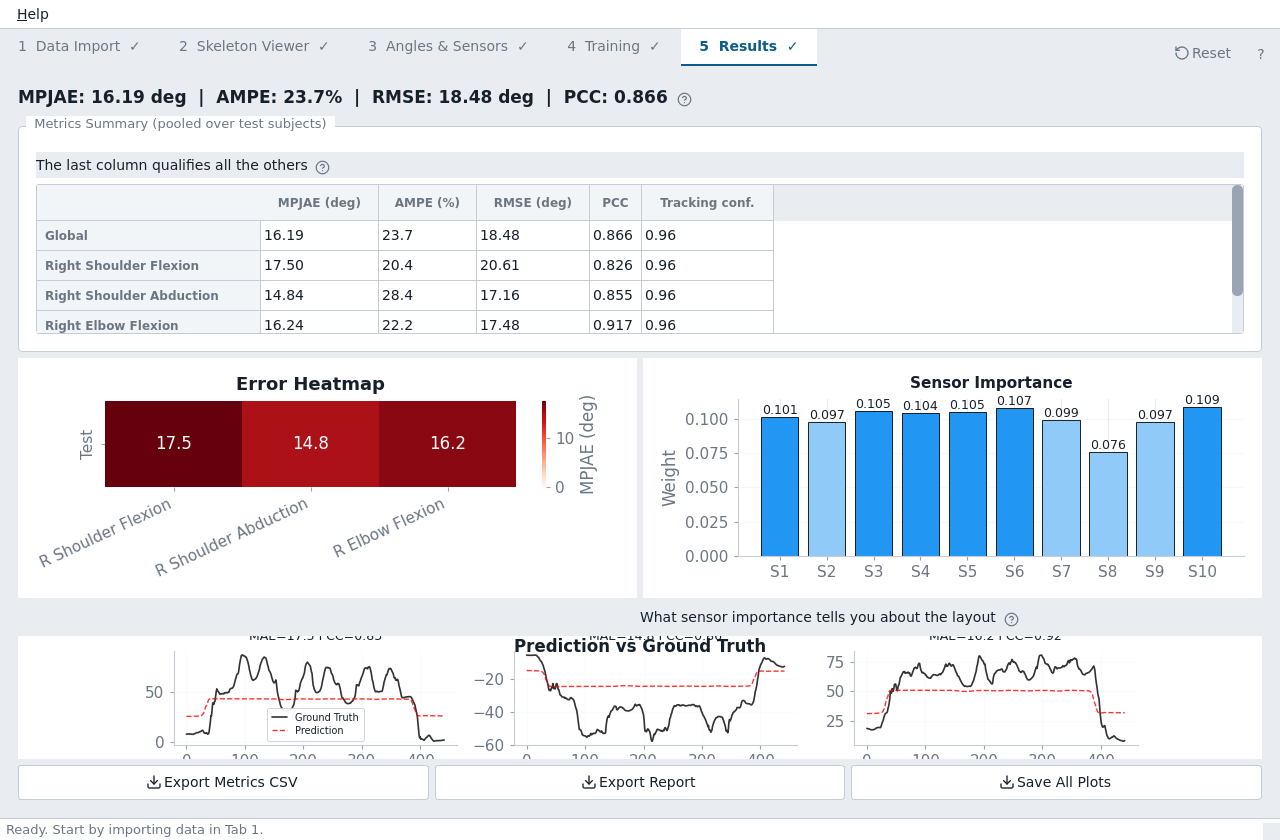
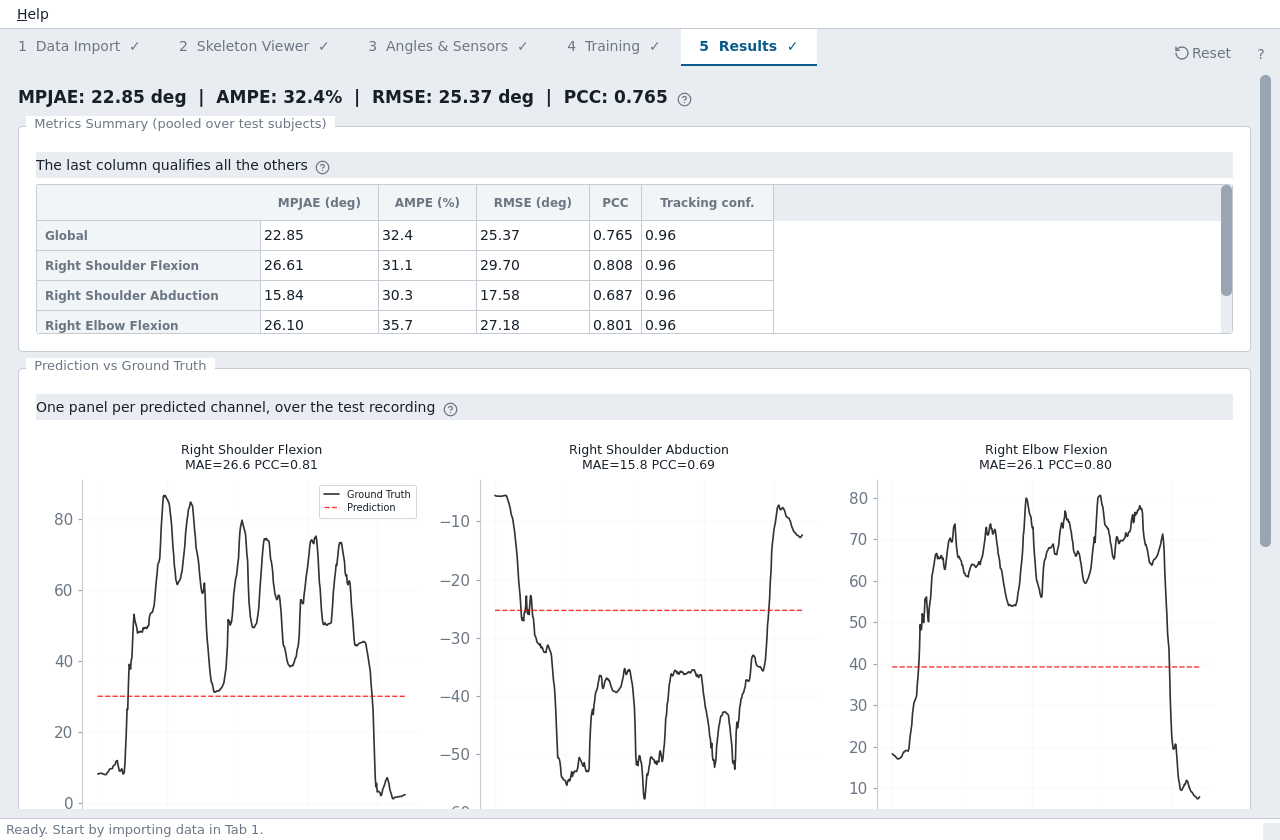
Drop the error heatmap and lead Tab 5 with the prediction curves
The heatmap was a single row of per-joint errors sitting directly below
the metrics table that already printed those same numbers, and it spent
half the width doing it.

Prediction vs Ground Truth takes that space: it moves up between the
tables and the sensor chart, gets its own group box and grows from 10x4
to 11x5.6. It is the figure that answers the question the tables cannot —
whether the error is a constant offset, drift, or a movement the sensors
miss altogether. Sensor importance moves below it at the size a ten-bar
chart needs.

The CLI keeps writing error_heatmap.png; only the dashboard changes.

Manual, README and screenshots updated to match.

diff --git a/gui/panels/results_dashboard.py b/gui/panels/results_dashboard.py
@@ -1,6 +1,13 @@
 """
-Tab 5: Results Dashboard — Metrics table, heatmap, sensor importance,
-prediction curves, export.
+Tab 5: Results Dashboard — Metrics tables, prediction curves, sensor
+importance, export.
+
+The per-joint error heatmap that used to sit here was dropped: it was a single
+row of numbers already printed in the metrics table right above it, so it spent
+half the width restating what the reader had just read. The prediction-vs-ground-
+truth curves take that space instead — they are the figure people actually read
+to judge whether the garment tracks the movement — and sensor importance sits
+below them at the size a ten-bar chart needs.
 """
 
 import numpy as np
@@ -10,25 +17,12 @@ from PyQt6.QtWidgets import (
     QTableWidget, QTableWidgetItem, QFileDialog, QGroupBox, QMessageBox,
     QScrollArea,
 )
-from PyQt6.QtCore import Qt
 from PyQt6.QtGui import QColor
 
 from matplotlib.backends.backend_qtagg import FigureCanvasQTAgg as FigureCanvas
 from matplotlib.figure import Figure
 
 from gui import help as help_ui, icons
-
-
-def _abbreviate(joint_name):
-    """
-    Shorten a joint name for a cramped axis label.
-
-    "Right Shoulder Flexion" does not fit under a narrow heatmap column even
-    rotated, and the full names are already listed in the metrics table above.
-    """
-    words = str(joint_name).split()
-    short = {'right': 'R', 'left': 'L'}
-    return ' '.join(short.get(w.lower(), w) for w in words)
 
 
 class ResultsDashboardPanel(QWidget):
@@ -73,35 +67,37 @@ class ResultsDashboardPanel(QWidget):
         mg.addWidget(self.metrics_table)
         layout.addWidget(metrics_group)
 
-        # --- Plots ---
-        # Error heatmap + Sensor importance side by side
-        row1 = QHBoxLayout()
-        self.fig_heatmap = Figure(figsize=(5, 3.2))
-        self.ax_heatmap = self.fig_heatmap.add_subplot(111)
-        self.canvas_heatmap = FigureCanvas(self.fig_heatmap)
-        # Without a floor the layout squeezes this row until tight_layout has to
-        # clip the title and the rotated joint labels.
-        self.canvas_heatmap.setMinimumHeight(240)
-        row1.addWidget(self.canvas_heatmap)
+        # --- Prediction curves: the headline figure, full width ---
+        pred_group = QGroupBox("Prediction vs Ground Truth")
+        pg = QVBoxLayout(pred_group)
+        pg.addWidget(help_ui.labelled(
+            "One panel per predicted channel, over the test recording",
+            'prediction_curves'))
+        self.fig_pred = Figure(figsize=(11, 5.6))
+        self.canvas_pred = FigureCanvas(self.fig_pred)
+        # One row of small-multiples needs roughly this much to stay readable;
+        # more channels add rows and the scroll area takes up the slack.
+        self.canvas_pred.setMinimumHeight(430)
+        pg.addWidget(self.canvas_pred)
+        layout.addWidget(pred_group)
 
-        self.fig_importance = Figure(figsize=(5, 3.2))
-        self.ax_importance = self.fig_importance.add_subplot(111)
-        self.canvas_importance = FigureCanvas(self.fig_importance)
-        self.canvas_importance.setMinimumHeight(240)
-        row1.addWidget(self.canvas_importance)
-        layout.addLayout(row1)
-
-        importance_row = QHBoxLayout()
-        importance_row.addStretch()
-        importance_row.addWidget(help_ui.labelled(
+        # --- Sensor importance: a ten-bar chart, so kept modest ---
+        importance_group = QGroupBox("Sensor Importance")
+        ig = QVBoxLayout(importance_group)
+        ig.addWidget(help_ui.labelled(
             "What sensor importance tells you about the layout",
             'sensor_importance'))
-        layout.addLayout(importance_row)
-
-        # Prediction curves
-        self.fig_pred = Figure(figsize=(10, 4))
-        self.canvas_pred = FigureCanvas(self.fig_pred)
-        layout.addWidget(self.canvas_pred)
+        importance_row = QHBoxLayout()
+        self.fig_importance = Figure(figsize=(5.5, 2.4))
+        self.ax_importance = self.fig_importance.add_subplot(111)
+        self.canvas_importance = FigureCanvas(self.fig_importance)
+        self.canvas_importance.setMinimumHeight(200)
+        self.canvas_importance.setMaximumHeight(240)
+        self.canvas_importance.setMaximumWidth(640)
+        importance_row.addWidget(self.canvas_importance)
+        importance_row.addStretch()
+        ig.addLayout(importance_row)
+        layout.addWidget(importance_group)
 
         # --- Export buttons ---
         export_layout = QHBoxLayout()
@@ -139,9 +135,8 @@ class ResultsDashboardPanel(QWidget):
 
         self._fill_subject_table()
         self._fill_metrics_table(metrics)
-        self._plot_heatmap(metrics)
-        self._plot_sensor_importance()
         self._plot_predictions(metrics)
+        self._plot_sensor_importance()
 
     def reset(self):
         """Empty every table and figure so no stale result is left on screen."""
@@ -150,13 +145,11 @@ class ResultsDashboardPanel(QWidget):
             table.clearContents()
             table.setRowCount(0)
         self.subject_group.setVisible(False)
-        for figure, canvas in ((self.fig_heatmap, self.canvas_heatmap),
-                               (self.fig_importance, self.canvas_importance),
+        for figure, canvas in ((self.fig_importance, self.canvas_importance),
                                (self.fig_pred, self.canvas_pred)):
             figure.clf()
             canvas.draw()
-        # clf() dropped the axes these attributes referred to
-        self.ax_heatmap = self.fig_heatmap.add_subplot(111)
+        # clf() dropped the axes this attribute referred to
         self.ax_importance = self.fig_importance.add_subplot(111)
 
     def _fill_subject_table(self):
@@ -252,33 +245,6 @@ class ResultsDashboardPanel(QWidget):
 
         self.metrics_table.resizeColumnsToContents()
 
-    def _plot_heatmap(self, metrics):
-        # Rebuild the whole figure rather than clearing the axes. seaborn adds
-        # its colourbar as a NEW axes on the figure, and ax.clear() does not
-        # remove it — so refreshing this tab stacked up one extra colourbar per
-        # visit. clf() drops them all.
-        self.fig_heatmap.clf()
-        self.ax_heatmap = self.fig_heatmap.add_subplot(111)
-
-        joint_names = list(metrics['MPJAE_per_joint'].keys())
-        values = [metrics['MPJAE_per_joint'][j] for j in joint_names]
-        error_matrix = np.array(values).reshape(1, -1)
-
-        import seaborn as sns
-        sns.heatmap(
-            error_matrix, annot=True, fmt=".1f", cmap="Reds",
-            xticklabels=[_abbreviate(j) for j in joint_names],
-            yticklabels=['Test'],
-            cbar_kws={'label': 'MPJAE (deg)'}, vmin=0, ax=self.ax_heatmap,
-        )
-        # Long joint names need room; horizontal labels would be unreadable.
-        self.ax_heatmap.set_xticklabels(
-            self.ax_heatmap.get_xticklabels(), rotation=25, ha='right'
-        )
-        self.ax_heatmap.set_title("Error Heatmap", fontweight='bold')
-        self.fig_heatmap.tight_layout()
-        self.canvas_heatmap.draw()
-
     def _plot_sensor_importance(self):
         self.ax_importance.clear()
         model = self.state.get('model')
@@ -299,7 +265,6 @@ class ResultsDashboardPanel(QWidget):
             self.ax_importance.text(bar.get_x() + bar.get_width() / 2., bar.get_height(),
                                     f'{val:.3f}', ha='center', va='bottom', fontsize=9)
 
-        self.ax_importance.set_title("Sensor Importance", fontsize=11, fontweight='bold')
         self.ax_importance.set_ylabel("Weight")
         self.ax_importance.grid(axis='y', alpha=0.3)
         self.fig_importance.tight_layout()
@@ -329,7 +294,6 @@ class ResultsDashboardPanel(QWidget):
             if i == 0:
                 ax.legend(fontsize=7)
 
-        self.fig_pred.suptitle("Prediction vs Ground Truth", fontsize=12, fontweight='bold')
         self.fig_pred.tight_layout()
         self.canvas_pred.draw()
 
@@ -360,7 +324,6 @@ class ResultsDashboardPanel(QWidget):
         if not folder:
             return
         folder = Path(folder)
-        self.fig_heatmap.savefig(folder / 'error_heatmap.png', dpi=150, bbox_inches='tight')
         self.fig_importance.savefig(folder / 'sensor_importance.png', dpi=150, bbox_inches='tight')
         self.fig_pred.savefig(folder / 'prediction_curves.png', dpi=150, bbox_inches='tight')
         QMessageBox.information(self, "Saved", f"Plots saved to {folder}")

diff --git a/tests/test_multisubject.py b/tests/test_multisubject.py
@@ -382,10 +382,14 @@ def test_rebuilding_the_sensor_list_leaves_no_ghost_widgets():
     assert empties == [1, 1, 1], empties
 
 
-def test_dashboard_refresh_does_not_accumulate_colorbars():
+def test_dashboard_refresh_does_not_accumulate_axes():
     """
-    seaborn adds its colourbar as a new axes and ax.clear() does not remove it,
-    so every visit to the Results tab used to add another colourbar.
+    Revisiting the Results tab must not stack figures up.
+
+    This started as a seaborn colourbar leak on the error heatmap — seaborn adds
+    its colourbar as a new axes and ax.clear() does not remove it. The heatmap is
+    gone, but the prediction figure builds one subplot per channel on every
+    refresh, so the same class of leak is one missing clear() away.
     """
     def metrics(n):
         joints = [f'J{i}' for i in range(n)]
@@ -407,11 +411,12 @@ def test_dashboard_refresh_does_not_accumulate_colorbars():
     for _ in range(4):
         w.tab_results.refresh()
         _app.processEvents()
-        counts.append(len(w.tab_results.fig_heatmap.axes))
+        counts.append((len(w.tab_results.fig_pred.axes),
+                       len(w.tab_results.fig_importance.axes)))
 
     assert len(set(counts)) == 1, f"axes count grew across refreshes: {counts}"
-    # one for the heatmap, one for its colourbar
-    assert counts[0] == 2, counts
+    # one prediction panel per channel, one bar chart
+    assert counts[0] == (3, 1), counts
 
 
 def _loaded_window():

diff --git a/gui/help.py b/gui/help.py
@@ -156,6 +156,16 @@ HELP = {
         "channel is a real result.",
         "#reading-the-numbers",
     ),
+    'prediction_curves': (
+        "Prediction vs ground truth",
+        "One panel per predicted channel, over the whole test recording. Black "
+        "is the ground truth from the video, red dashed is what the model "
+        "inferred from the sensors alone.<br><br>This is the figure to judge "
+        "the garment by: the tables give one number per channel, but only the "
+        "curves show <i>where</i> the error is — a constant offset, drift over "
+        "time, or a specific movement the sensors miss entirely.",
+        "#tab-5--results",
+    ),
     'sensor_importance': (
         "Sensor importance",
         "How much the trained model relied on each channel, from the first "

diff --git a/docs/manual.md b/docs/manual.md
@@ -320,9 +320,10 @@ what the model predicts, and what it predicts from.
 | Control | What it does |
 |---|---|
 | **Data** / **Subject** | which session the plots show |
-| **Joint Angles (targets)** | the angles the model will predict — grouped by body part |
-| **All** / **None** / **Shoulder** | quick selection |
-| **Sensor Channels (inputs)** | which garment channels the model may use |
+| **Joint Angles (targets)** | the 26 angles the model can predict, grouped by body part — scroll the list to reach them all |
+| **All** / **None** / **Shoulder** | quick selection, under the angle list |
+| **Sensor Channels (inputs)** | which garment channels the model may use — one tickbox per channel, also scrollable |
+| **All** / **None** | quick selection, under the sensor list |
 | Upper plot | the selected joint angles over time |
 | Lower plot | the selected sensor channels, on the same time axis |
 
@@ -499,9 +500,8 @@ What each one is:
 | Headline | overall MPJAE, AMPE, RMSE, PCC |
 | **Per-Subject Results** | the same metrics for each test session separately (shown when there are several) |
 | **Metrics Summary** | per-joint metrics, plus the ground truth's tracking confidence |
-| Error heatmap | per-joint error at a glance |
-| Sensor importance | which channels the model relied on |
-| Prediction vs Ground Truth | predicted and true angle traces per joint |
+| **Prediction vs Ground Truth** | one panel per predicted channel: the true angle trace in black, the model's in red |
+| **Sensor Importance** | which channels the model relied on |
 | **Export Metrics CSV** | the metrics table as CSV |
 | **Export Report** | a text summary |
 | **Save All Plots** | the figures as PNGs |
@@ -509,7 +509,13 @@ What each one is:
 Check the **per-subject** table before the pooled numbers: one unusual wearer can
 carry the average.
 
-**Sensor importance** is what feeds back into garment design — a channel with
+**Prediction vs Ground Truth** is the figure to judge the garment by. The tables
+give one number per channel; the curves show *where* the error is — a constant
+offset, drift over the recording, or a particular movement the sensors miss
+entirely. The tab scrolls, so keep going down for the sensor chart and the
+export buttons.
+
+**Sensor Importance** is what feeds back into garment design — a channel with
 near-zero importance is not contributing and could be moved or removed.
 
 ### Reading the numbers

diff --git a/README.md b/README.md
@@ -82,8 +82,8 @@ A local machine is much better for interactive use.
 4. Tab 3 → tick the joint angles to predict and the sensor channels to use. Each
    angle shows its tracking confidence; low ones are flagged red.
 5. Tab 4 → **Start Training** (defaults are fine).
-6. Tab 5 → per-joint MPJAE / AMPE / RMSE / PCC, error heatmap, sensor importance,
-   and predicted-vs-ground-truth curves.
+6. Tab 5 → per-joint MPJAE / AMPE / RMSE / PCC, predicted-vs-ground-truth
+   curves, and sensor importance.
 
 ## Command line
 
@@ -100,6 +100,8 @@ Headless, no display required, no training performed:
 ```bash
 QT_QPA_PLATFORM=offscreen PYTHONPATH=. python tests/test_multisubject.py
 QT_QPA_PLATFORM=offscreen PYTHONPATH=. python tests/test_confidence.py
+QT_QPA_PLATFORM=offscreen PYTHONPATH=. python tests/test_layout.py
+PYTHONPATH=. python tests/test_validation.py
 ```
 
 If `MainWindow` import appears to hang, set `MPLCONFIGDIR` to a local directory —
